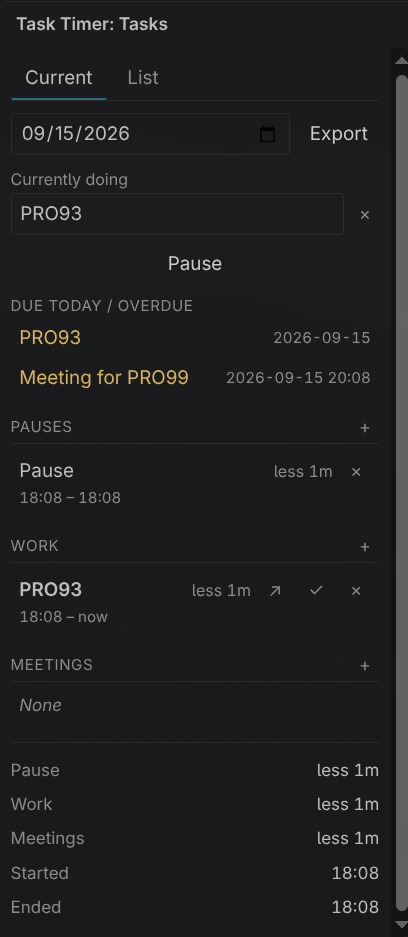
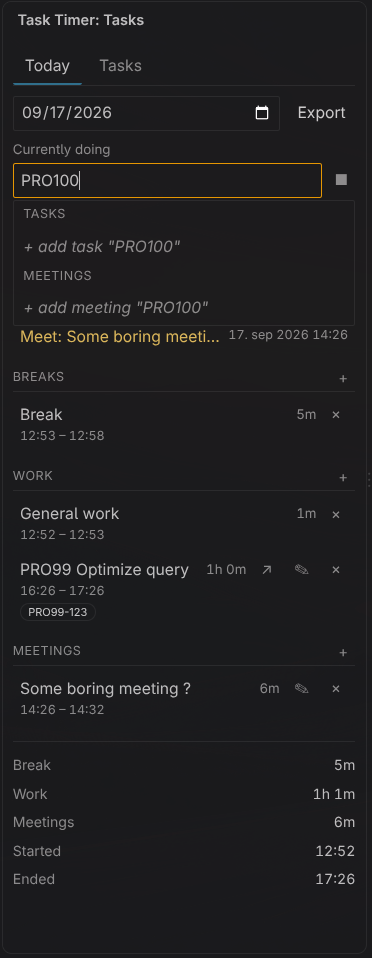
update readme and example images.

diff --git a/README.md b/README.md
@@ -6,6 +6,8 @@
 
 Track time spent on tasks and meetings, right inside VS Code. Still in beta.
 
+100% open-source. Zero telemetry, zero syncing, and your data never leaves your device.
+
 ## Why
 
 I'm lazy about adding time logs to Jira by hand. Instead, I export the day to CSV, paste the text into Jira Rovo AI, and let it log everything for me.
@@ -38,6 +40,4 @@ Commands:
 
 ## Examples
 
-![Task Timer sidebar](examples/screenshot_1.png)
-
-![Task list](examples/screenshot_2.png)
+<img src="examples/screenshot_1.png" width="25%"> <img src="examples/screenshot_2.png" width="25%"> <img src="examples/screenshot_3.png" width="25%">
